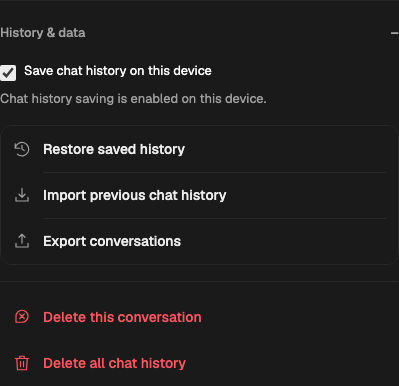
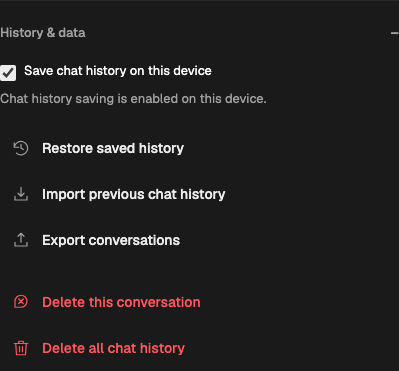
fix(assistant): remove redundant history command enclosures

diff --git a/test/e2e/agent-history-actions.spec.ts b/test/e2e/agent-history-actions.spec.ts
@@ -64,16 +64,19 @@ for (const scheme of ['light', 'dark'] as const) {
       for (const width of [1280, 360, 320]) {
         await page.setViewportSize({ width, height: 900 });
         await page.mouse.move(0, 0);
+        await page.locator('.agent-runtime-panel').screenshot({
+          path: info.outputPath(`history-pane-${locale}-${width}-${scheme}.png`),
+        });
         await options.screenshot({ path: info.outputPath(`history-actions-${locale}-${width}-${scheme}.png`) });
         const transfer = options.locator('.agent-history-restore, .agent-history-import, .agent-history-export');
         const danger = options.locator('.agent-history-delete-current, .agent-history-delete-all');
         const group = options.locator('.agent-history-transfer-actions');
-        const groupSurface = await surface(group);
-        // One visible group owns the affordance; labels cannot form a ragged
-        // wrapping button cloud as translations or the panel width change.
-        expect(groupSurface.borderWidth).toBe(1);
-        expect(groupSurface.border).not.toBe(groupSurface.background);
+        // Grouping belongs to the pane's typography/spacing. Verify real row
+        // targets and shared edges rather than mandating a decorative frame.
         const groupBox = (await group.boundingBox())!;
+        const optionsBox = (await options.boundingBox())!;
+        expect(groupBox.x).toBeCloseTo(optionsBox.x, 1);
+        expect(groupBox.width).toBeCloseTo(optionsBox.width, 1);
         let previousBottom = 0;
         for (const button of await transfer.or(danger).all()) {
           const css = await surface(button);
@@ -81,8 +84,8 @@ for (const scheme of ['light', 'dark'] as const) {
           expect(contrast(css.color, css.background)).toBeGreaterThanOrEqual(4.5);
           const box = (await button.boundingBox())!;
           expect(box.height).toBeGreaterThanOrEqual(44);
-          expect(box.width).toBeGreaterThanOrEqual(groupBox.width - 2);
-          expect(box.x).toBeCloseTo(groupBox.x + 1, 1);
+          expect(box.width).toBeCloseTo(groupBox.width, 1);
+          expect(box.x).toBeCloseTo(groupBox.x, 1);
           expect(box.y).toBeGreaterThanOrEqual(previousBottom);
           previousBottom = box.y + box.height;
           const icon = button.locator('svg[aria-hidden="true"]');

diff --git a/styles/assistant.css b/styles/assistant.css
@@ -166,17 +166,6 @@ body.agent-panel-resizing #app iframe {
   display: grid;
   min-width: 0;
 }
-.agent-history-transfer-actions {
-  border: 1px solid var(--ran-color-border-secondary);
-  border-radius: var(--ran-radius-md);
-  background: var(--ran-color-bg-elevated);
-}
-.agent-history-danger-actions {
-  border-block-start: 1px solid var(--ran-color-border-secondary);
-  /* Reserve the same frame inset as the transfer group without drawing another box. */
-  border-inline: 1px solid transparent;
-  padding-block-start: var(--ran-space-3);
-}
 .agent-history-confirmation {
   margin-top: var(--ran-space-3);
 }
@@ -214,8 +203,8 @@ body.agent-panel-resizing #app iframe {
   border-color: var(--ran-color-border-active);
   background: var(--ran-color-bg-active);
 }
-/* Settings commands form rows in one surface, rather than independently sized
-   outlined CTAs. Each complete row is a target, including its icon and label. */
+/* The settings pane already establishes the region. Flat command rows use
+   spacing for grouping and retain their complete icon/label hit target. */
 .agent-history-actions button {
   width: 100%;
   min-height: var(--app-control-touch);
@@ -227,28 +216,6 @@ body.agent-panel-resizing #app iframe {
   text-align: start;
   font-size: var(--ran-text-label-1);
   font-weight: var(--ran-text-label-weight);
-}
-.agent-history-transfer-actions button {
-  position: relative;
-  border-radius: 0;
-}
-.agent-history-transfer-actions button:first-child {
-  border-start-start-radius: calc(var(--ran-radius-md) - 1px);
-  border-start-end-radius: calc(var(--ran-radius-md) - 1px);
-}
-.agent-history-transfer-actions button:last-child {
-  border-end-start-radius: calc(var(--ran-radius-md) - 1px);
-  border-end-end-radius: calc(var(--ran-radius-md) - 1px);
-}
-.agent-history-transfer-actions button + button::before {
-  content: '';
-  position: absolute;
-  inset-block-start: 0;
-  /* Match the label column: row padding + icon viewport + icon/label gap. */
-  inset-inline-start: calc(var(--ran-space-3) + var(--ran-size-2) + var(--ran-space-3));
-  inset-inline-end: var(--ran-space-3);
-  border-block-start: 1px solid var(--ran-color-border-secondary);
-  pointer-events: none;
 }
 .agent-history-actions button svg {
   flex: 0 0 var(--ran-size-2);

diff --git a/docs/explorations/2026-10-20-assistant-layout-acceptance.md b/docs/explorations/2026-10-20-assistant-layout-acceptance.md
@@ -83,51 +83,75 @@ Persistence, model loading, document writes and dependency versions are unchange
 
 ## Follow-up: grouped history commands
 
-User review found that five independently outlined buttons still made History & data
-look crowded, especially when translated labels changed the wrapping pattern. The
-three transfer commands now share one quiet framed surface with aligned icon/label
-rows. Each complete row remains a native button. Deletion commands occupy a separate
-group with danger text and icons; a solid danger fill is reserved for confirmation.
-The save-history checkbox uses the existing monochrome primary role.
+History & data now uses flat native command rows inside the established settings pane.
+Restore/Import/Export share icon/label columns and full-width targets, with a 16px gap
+before the destructive commands. There is no inner group outline, group fill, row rule,
+deletion divider or transparent border retaining an obsolete card inset. Hover/press,
+keyboard focus, disabled states and the explicit danger confirmation remain distinct.
 
-The resting frame, full-row hover/press feedback, keyboard outline and decorative icons
-make these commands discoverable without a border around every label. Group frames
-remain on the 16px content rail; row frames, icons and labels align across both groups.
-Long labels wrap within their row. Busy states retain geometry, localized labels survive
-sync without removing icons, and the existing confirmation/cancellation/focus owner is
-unchanged. Source attachment/removal and artifact save/apply/confirmation actions were
-also inspected: they are contextual form actions and retain their existing hierarchy.
+An earlier framed group, followed by inset separators, still repeated the pane's existing
+boundary. The final revision removes that enclosure instead of making its lines more subtle.
+Acceptance measures full-row geometry, contrast and interactions without requiring a
+decorative group frame, and records the complete pane as well as the command region.
 
-The history-action acceptance now measures group affordance, full-width non-overlapping
-rows, minimum 44px targets, accessible names and actual contrast, rather than requiring
-an individual outline on every command. English/Portuguese, 432px desktop panels,
-360px/320px windows and both themes are inspected in Chromium, WebKit and Firefox,
-including hover/press/disabled states, Enter/Escape, real export download and focus return.
+The runtime baseline after adding icon/label rows passed all 252 unit files / 6,801 tests
+(including 274 focused history/panel/write tests), lint/typecheck and the production build.
+Two existing non-fatal `PromiseRejectionHandledWarning` messages were printed. The final
+flat-composition revision changes CSS, browser acceptance and prose; runtime logic is unchanged.
+The coverage percentages above belong to the earlier layout-only coverage run.
 
-![Grouped history commands in light mode](../media/assistant-layout/2026-10-20-history-commands-light.png)
+## Revision scope: remove redundant command enclosures
 
-![Grouped history commands in dark mode](../media/assistant-layout/2026-10-20-history-commands-dark.png)
+The user rejected the remaining nested-box appearance. This revision applies ran's existing
+composition rules (avoid redundant nested containers; establish hierarchy with type and spacing)
+to the complete settings pane rather than refining a cropped card in isolation.
+The starting evidence below refers to document `515e7ba6` and ran `911ee0853`.
 
-![Portuguese history commands in a 320px dark window](../media/assistant-layout/2026-10-20-history-commands-320-dark.png)
+| Assumption                                                                             | Evidence                                                                                | Decision                                                                         |
+| -------------------------------------------------------------------------------------- | --------------------------------------------------------------------------------------- | -------------------------------------------------------------------------------- |
+| Existing guidance already discourages decorative nested frames                         | Code fact: ran `packages/ranui/docs/DESIGN.md`, composition and spacing sections        | Clarify how this wins over the optional framed-command example                   |
+| History has a section divider, a transfer frame, row separators and a deletion divider | Code fact: `styles/assistant.css`, history options/transfer/danger rules; renders above | Retain the major section boundary; remove the three redundant command treatments |
+| Group framing is currently required by acceptance                                      | Code fact: `test/e2e/agent-history-actions.spec.ts`, resting group assertions           | Verify full-row geometry and interactions without mandating an enclosure         |
+| Native controls own persistence, confirmation and focus                                | Code fact: `lib/agent-plugin/ui/history-controls.ts`                                    | Leave runtime code unchanged                                                     |
 
-Follow-up verification:
+Allowed changes: ran's `DESIGN.md`, `INTERFACE_GUIDE.md`, English/Chinese design-guide
+entry points; document's assistant CSS, existing history-action browser acceptance,
+design contract, this acceptance record and history command/full-pane screenshots.
+Forbidden changes: tokens, component defaults/APIs, dependency versions, vendor files,
+history/state/storage code and unrelated site layouts.
 
-- The new group acceptance failed against the independent-button layout before implementation.
-- Final production build: three Chromium and six Firefox/WebKit history-action cases
-  passed without retries. The broader layout/history run also passed all 10 cases.
-- Focused history controls, panel lifecycle and write-reply unit suites: 274 passed.
-- Final `pnpm test`: all 252 files and 6,801 tests passed. The suite printed the same
-  two non-fatal `PromiseRejectionHandledWarning` messages seen before this change.
-  The coverage percentages above belong to the earlier layout-only coverage run.
-- Lint/typecheck, formatting, production build and diff checks passed. Independent
-  code review found no actionable issues; light/dark and narrow screenshots were inspected.
-- The companion ran guidance now explicitly supports grouped command affordances and
-  separates destructive intent from destructive confirmation without changing library defaults.
+Compatibility red lines: keep the panel boundary, field borders, keyboard focus outlines,
+44px targets, icon/label columns, accessible names, destructive confirmation and draft/focus
+return behavior. The simplest composition is a flat command list with one 16px gap before
+destructive actions. It needs no replacement card, muted group fill, shadow or new abstraction.
 
-Border refinement after visual feedback keeps the 1px rounded outer frame and starts
-internal separators at the label column, leaving the icon column uninterrupted. Lines
-end at the trailing row inset and use the existing secondary border role. Decorative
-pseudo-elements do not intercept input, change the row target or add another button box.
-Light/dark and narrow renders were inspected and the three Chromium history-action
-cases passed again without retries, including translated labels, touch targets, keyboard
-focus, hover/press/disabled states and confirmation/cancellation. No runtime logic changed.
+Acceptance: inspect the whole pane and its command region in both themes and at desktop,
+360px and 320px widths; use the existing English/Portuguese, pointer/keyboard, disabled,
+contrast, download, touch and confirmation checks. Verify the documentation and formatting
+gates in ran. The review must explain the purpose of each remaining stable boundary.
+
+## Remaining boundary review
+
+| Surface                | Boundary retained                                              | Distinct purpose                                                            |
+| ---------------------- | -------------------------------------------------------------- | --------------------------------------------------------------------------- |
+| Assistant/editor       | Panel edge                                                     | Independent sidebar and resize boundary                                     |
+| Models and Sources     | Picker/search/input frames                                     | Values that can be edited or selected                                       |
+| Conversations          | Search field and one History & data section rule               | Search input and a major change from conversation browsing to data settings |
+| History command groups | None at rest                                                   | Title, icon/label columns and proximity already express grouping            |
+| Command focus          | Keyboard outline                                               | Transient focus state, not decorative containment                           |
+| History deletion       | Solid confirmation button                                      | Explicit destructive commitment after the existing confirmation step        |
+| Artifacts              | Form/control boundaries and task-specific save/apply hierarchy | Editable values and explicit document/result operations                     |
+
+![Complete Conversations pane with flat commands](../media/assistant-layout/2026-10-20-history-pane-light.png)
+
+![Flat history commands in light mode](../media/assistant-layout/2026-10-20-history-commands-light.png)
+
+![Flat history commands in dark mode](../media/assistant-layout/2026-10-20-history-commands-dark.png)
+
+![Portuguese flat commands at 320px](../media/assistant-layout/2026-10-20-history-commands-320-dark.png)
+
+Final flat-composition verification: the history/layout Chromium suite passed all 10 cases;
+the Firefox/WebKit history-action suite passed all six cases. Retries were disabled.
+The updated row-edge acceptance first failed on the old enclosure's 2px reduction in
+available target width, then passed after the redundant frame/insets were removed.
+Ran documentation/link/eight-locale checks and changed-file formatting passed.

diff --git a/docs/design-system.md b/docs/design-system.md
@@ -256,19 +256,22 @@ or inspection is not acceptance evidence.
 
 ### Settings command groups
 
-History & data uses a single framed surface for Restore, Import and Export. Each command
-is a full-width native button row with an 18px decorative icon, a 14px label and a minimum
-44px target. The frame stays on the content rail; icons and labels align within it, including
-the separate deletion group. Long translations wrap inside their row rather than changing
-the number of columns. Existing monochrome roles also style the save-history checkbox.
-The 1px outer frame defines the group. Internal separators begin at the label column
-(row padding + icon viewport + gap) and end at the trailing row inset; they do not cut
-through the icon column or divide the surface into fully boxed cells. Separators are
-decorative and never intercept pointer input or alter the full-row target.
+History & data is already a named section inside the assistant pane. Restore, Import and
+Export therefore use flat native button rows: no inner group frame, added group fill,
+shadow or row separators. Each row has an 18px decorative icon, a 14px label and a minimum
+44px target. Row frames return to the content rail; shared internal padding keeps icons
+and labels aligned across routine and destructive commands. Long translations wrap inside
+their row rather than changing columns. The save-history checkbox uses the monochrome primary role.
 
-Deletion commands use quiet danger text and icons on the panel background, separated from
-transfer actions by space and a rule. Only the explicit confirmation has a solid danger fill.
-The shared frame and full-row hover/focus feedback supply the affordance; acceptance must
-not require an individual outline on every command. Draft, confirmation, busy and focus-return
-behavior remain owned by the existing controls. Contextual source and artifact form actions
-keep their existing task-specific button hierarchy rather than inheriting this settings layout.
+Deletion commands use quiet danger text/icons and a 16px group gap without another divider.
+Explicit verbs, aligned icons, repeated full-row targets and hover/press/focus feedback provide
+the command affordance. Only explicit confirmation has a solid danger fill. Draft, confirmation,
+busy and focus-return behavior remain owned by the existing controls.
+
+Review boundaries in the full pane. The panel/editor edge owns the independent sidebar;
+the search/input frames identify editable values; the single History & data section divider
+separates task regions; keyboard outlines identify focus. An inner card or more row rules
+would repeat those relationships. Models picker frames, Sources search/attachment controls
+and Artifacts form fields keep their functional control boundaries. Do not remove every
+border globally, add transparent borders to preserve obsolete card insets, or require a
+decorative group outline in acceptance.
